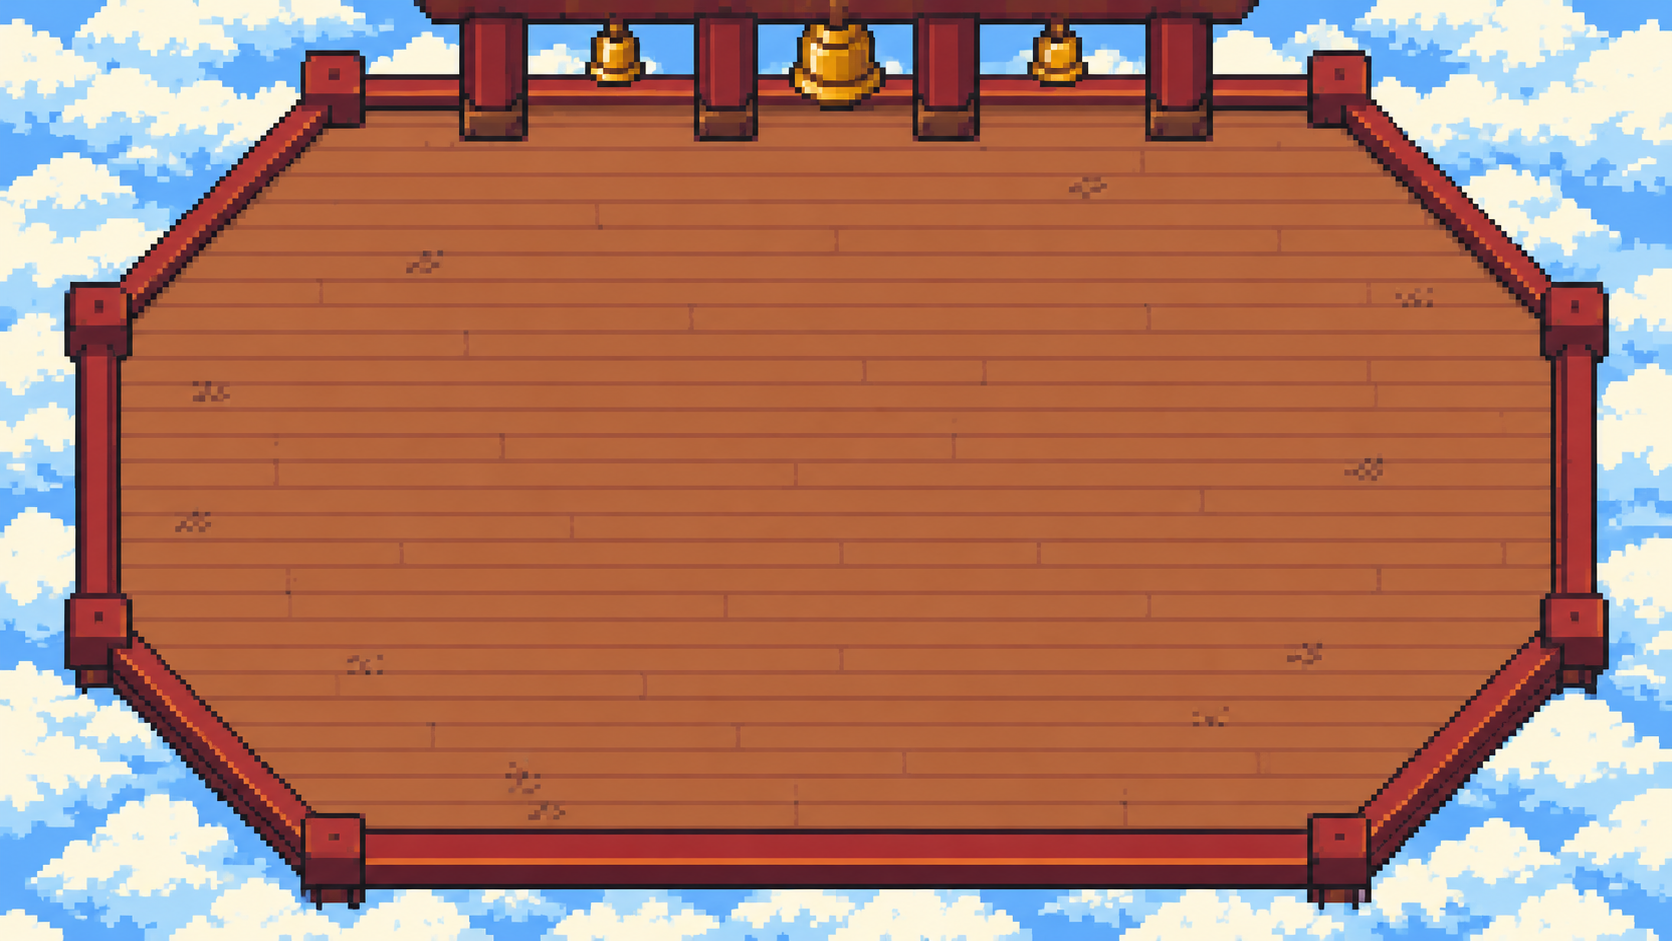
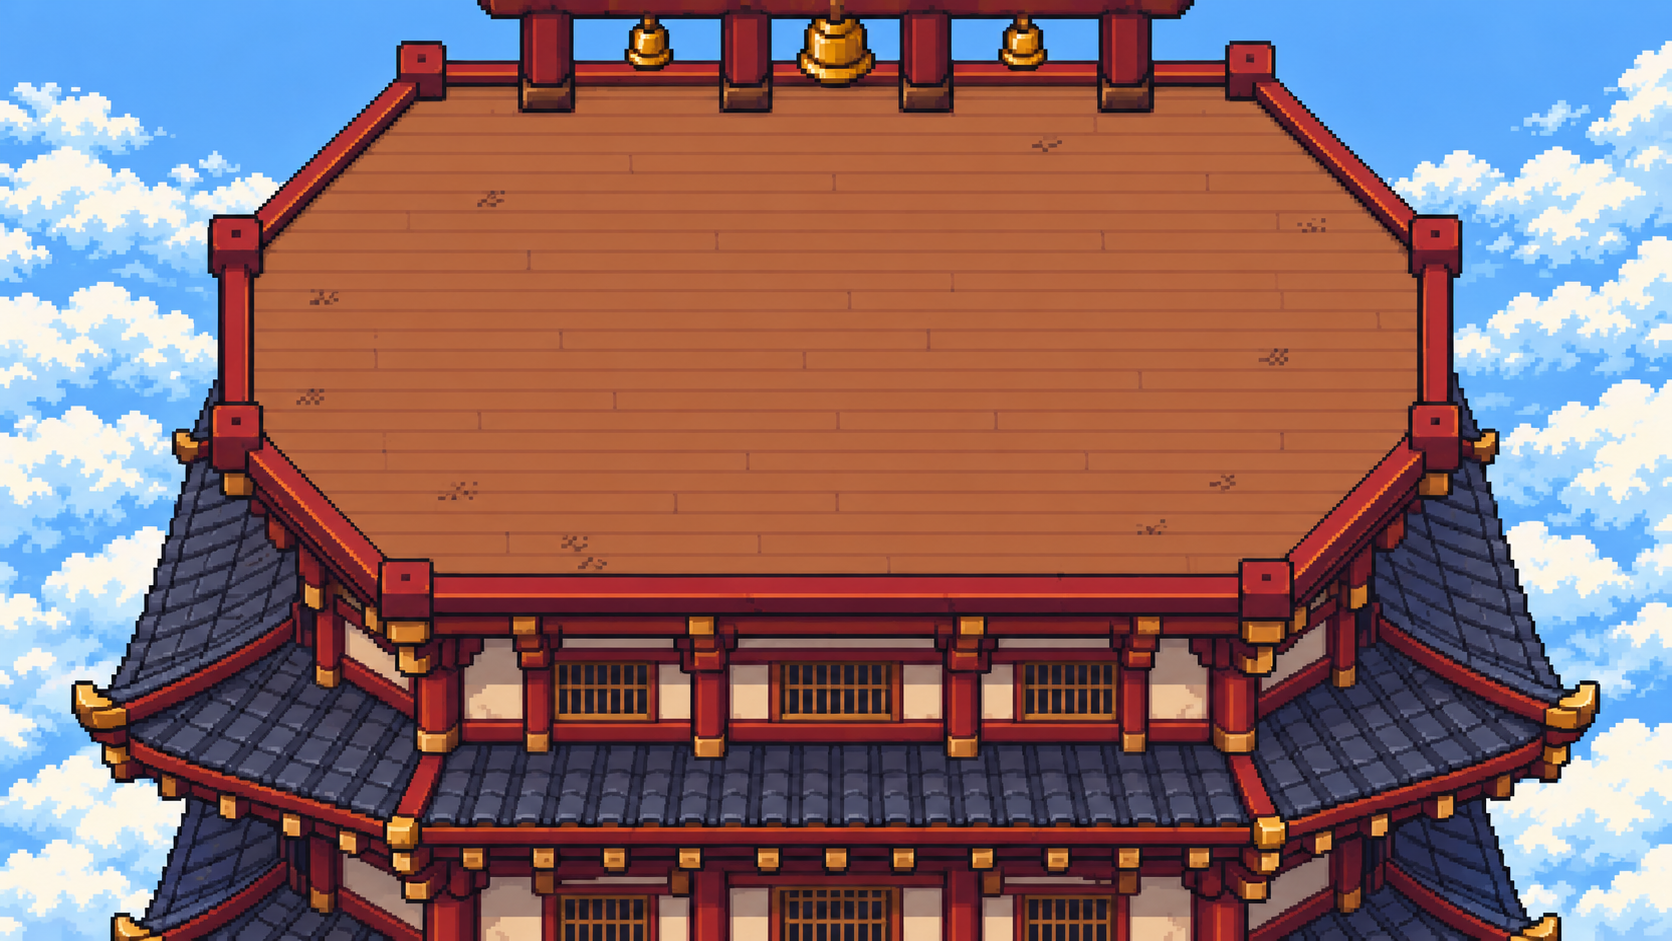
Show Bell Tower structure below Ho-Oh arena

diff --git a/artifacts/hooh-arena-concept/index.html b/artifacts/hooh-arena-concept/index.html
@@ -297,7 +297,7 @@
     </header>
     <section class="body">
       <div class="lead">
-        <div><h2>高空神殿 · 晨曦祭台</h2><p>以铃之塔为场景原型，外围用木构与铜铃收住空间，中央留出大面积开阔地供走位和识别招式范围。</p></div>
+        <div><h2>铃之塔顶层 · 云上屋脊</h2><p>保留塔顶外部战斗平台，并让下方几层飞檐与木构楼身进入画面；云海退到远处，明确这是一座向下延伸的高塔。</p></div>
         <div class="controls">
           <button id="encounter" type="button" aria-pressed="true">遭遇构图</button>
           <button id="clean" type="button" aria-pressed="false">纯场地</button>
@@ -308,13 +308,13 @@
       </div>
       <div class="layout">
         <div id="stage" class="stage">
-          <img class="scene" src="assets/hooh-arena-base.png?v=pixel-v3" alt="铃之塔顶层像素风开阔战斗平台概念底图">
+          <img class="scene" src="assets/hooh-arena-base.png?v=exterior-tower-v4" alt="铃之塔顶层外部平台与下方塔身概念底图">
           <div class="shade"></div><div class="sunbeam"></div>
           <div class="motes" aria-hidden="true">
             <i class="mote m1"></i><i class="mote m2"></i><i class="mote feather m3"></i><i class="mote m4"></i>
             <i class="mote m5"></i><i class="mote feather m6"></i><i class="mote m7"></i><i class="mote m8"></i>
           </div>
-          <div class="badge">铃之塔 · 顶层祭台</div><div class="hint">凤王 · BOSS遭遇</div>
+          <div class="badge">铃之塔 · 顶层屋脊</div><div class="hint">凤王 · BOSS遭遇</div>
           <div class="boss-hud"><span>凤王 · BOSS</span><div class="hp-track"><i></i></div></div>
           <div class="shadow"></div>
           <div class="actor hooh" role="img" aria-label="凤王"></div>
@@ -322,9 +322,9 @@
           <div class="nameplate">凤王 · 虹色之翼</div><div class="landing"></div>
         </div>
         <aside class="side">
-          <section class="card"><h3>场地布局</h3><p>塔檐、立柱和铜铃集中在远景与边缘；核心区域保持无遮挡，方便凤王的火焰招式预警清晰可读。</p></section>
-          <section class="card"><h3>光色方向</h3><p>上方晨光偏金白，近景落入暖棕阴影；少量羽焰承担动态点缀，不做全屏火海或大光环。</p><div class="palette" aria-label="场景配色"><i class="swatch s1"></i><i class="swatch s2"></i><i class="swatch s3"></i><i class="swatch s4"></i><i class="swatch s5"></i></div></section>
-          <section class="card"><h3>战斗可读性</h3><p>开阔的八边形平台提供环绕走位空间。围栏和铜铃只做环境轮廓，后续可单独定义碰撞边界与火焰地带。</p></section>
+          <section class="card"><h3>场地布局</h3><p>战斗平台下方露出格窗立面、承重梁柱和层叠瓦檐；这些塔身结构作为背景，不侵入平台的走位空间。</p></section>
+          <section class="card"><h3>光色方向</h3><p>天空只留在塔身两侧的远景；以朱红木构、深色瓦檐和暖色平台形成层次，让场景重心落在塔上。</p><div class="palette" aria-label="场景配色"><i class="swatch s1"></i><i class="swatch s2"></i><i class="swatch s3"></i><i class="swatch s4"></i><i class="swatch s5"></i></div></section>
+          <section class="card"><h3>战斗可读性</h3><p>开阔的顶层屋脊提供环绕走位空间；下方塔身只承担地标识别，实装时不参与角色走位。</p></section>
           <section class="card"><h3>设计依据</h3><p>借用铃之塔与凤王的城都意象，重做成适配本游戏俯视战斗的原创场景；玩家与凤王用现有游戏素材展示。</p></section>
         </aside>
       </div>

diff --git a/artifacts/hooh-arena-concept/README.md b/artifacts/hooh-arena-concept/README.md
@@ -1,11 +1,11 @@
 # 铃之塔顶层 · 凤王战斗地图概念
 
-这是凤王 BOSS 战的独立场景预览，尚未接入正式关卡。新版改为正俯视的木质祭台像素场景，以游戏内凤王精灵图为风格参照，减少石砖透视与装饰符号，让场景和角色的镜头及像素颗粒更协调。
+这是凤王 BOSS 战的独立场景预览，尚未接入正式关卡。场景保留铃之塔顶层外部战斗平台，并在平台下方露出木构楼身与层叠飞檐，避免画面像悬浮擂台；像素风格参照游戏内凤王精灵图。
 
 ## 设计依据
 
-- 以城都地区的铃之塔（旧称钟之塔）顶层遭遇意象为方向：木构塔檐、铜铃、开阔的高空平台与晨曦。
-- 战斗场地中央保持宽阔、低对比、无障碍；栏杆、立柱、屋檐和铜铃退到边缘，给玩家和招式预警留出识读空间。
+- 以城都地区的铃之塔（旧称钟之塔）顶层为意象：顶层屋脊平台、朱红木构、铜铃，以及平台下方连续可见的多层塔身与瓦檐。
+- 战斗平台中央保持宽阔、低对比、无障碍；下方塔身仅作远景构图，不进入角色走位区域。
 - 相机使用俯视单屏构图，像素块面与项目精灵图的颗粒靠拢；不模拟 GBA 屏幕、扫描线或瓷砖网格覆盖层。
 - 凤王使用项目已有的 `assets/icons/HOOH.png` 精灵图；训练家使用 `assets/player/NPC_198_Lucas.png`。
 - 预览底图为原创生成的概念背景，不是原作地图复刻。按钮可切换纯场地/遭遇构图、环境微动和天光，并播放一次短暂的凤王降临演出。页面默认静音。
